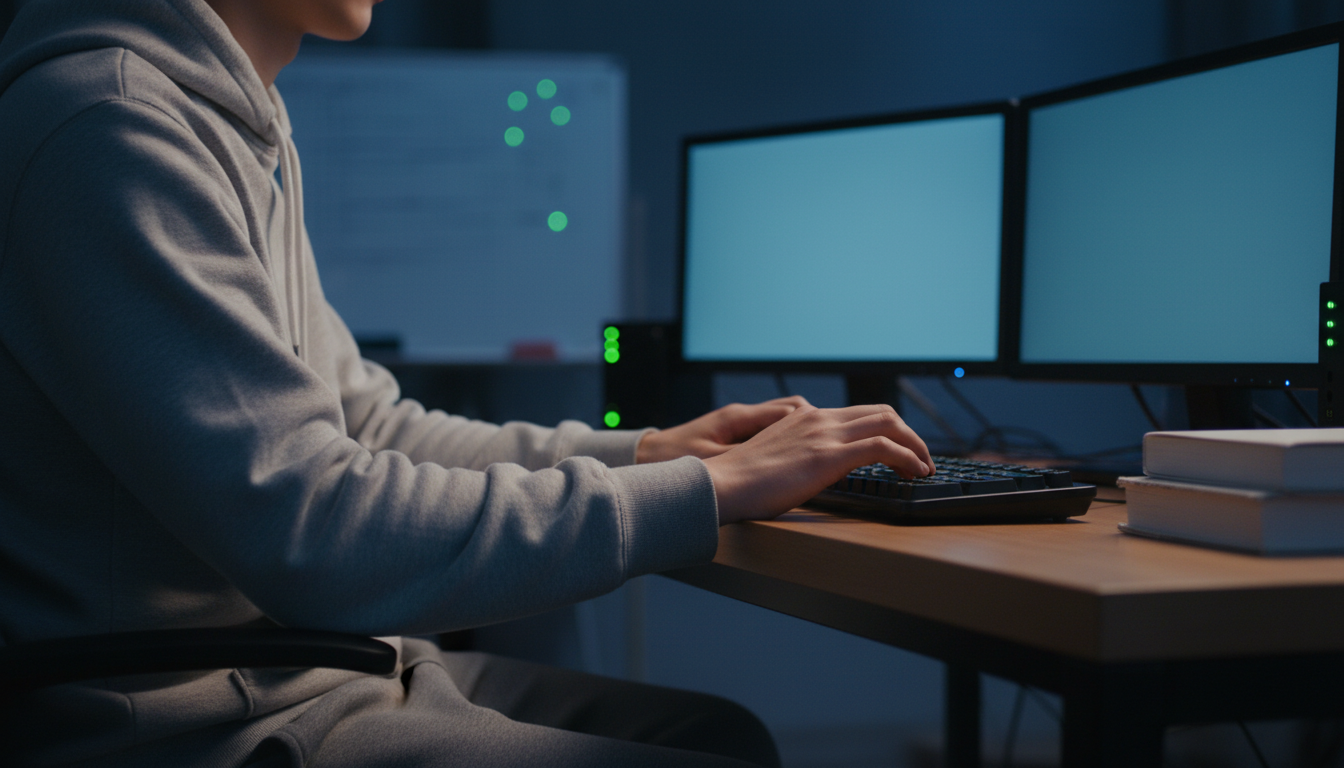
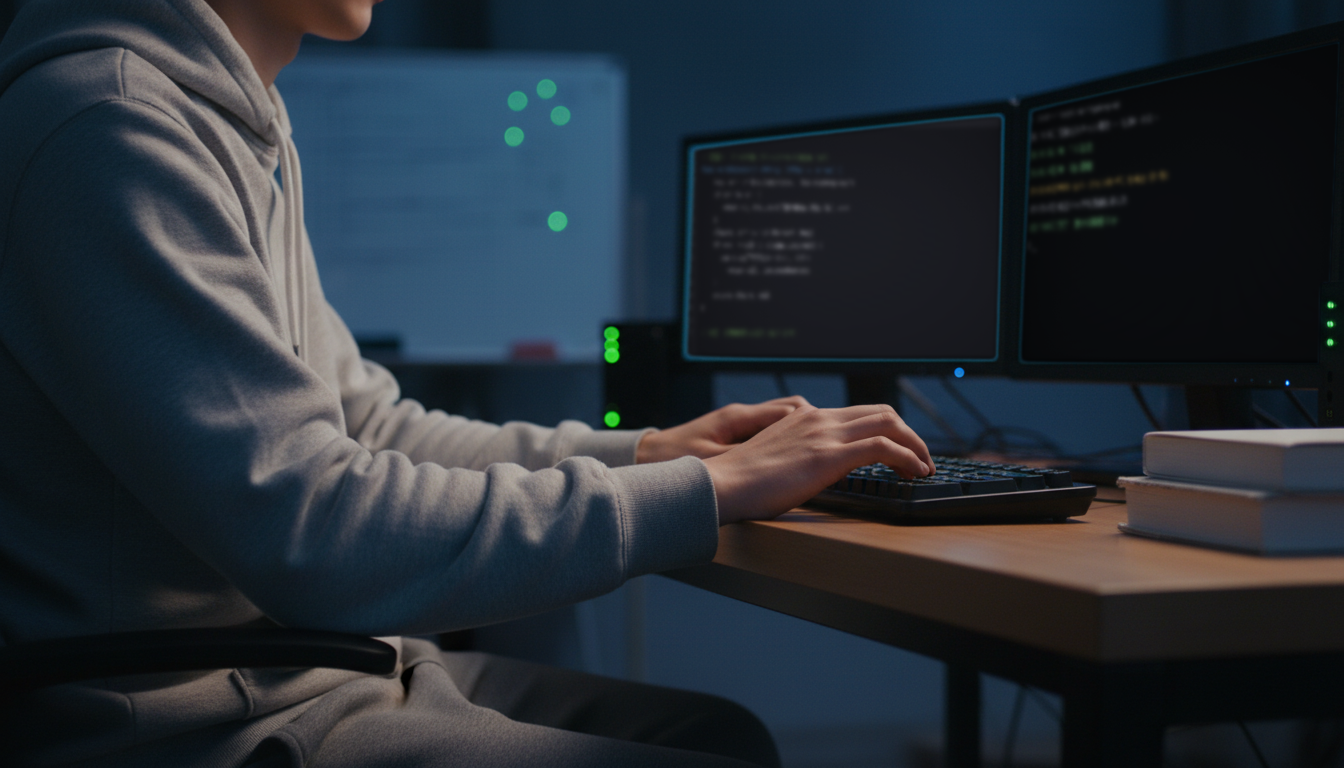
S05d·S20b 화면 수동 사각형 합성(초점 밖 화면 blur·feather 항목)
Claude-Session: https://claude.ai/code/session_01N7M5aRrGWr6VeAMa9sT3DQ

Changed region(s): [[0.5, 0.0625, 1.0, 0.5]]

diff --git a/scripts/hikikomori_screens.py b/scripts/hikikomori_screens.py
@@ -300,8 +300,9 @@ def apply_plan(img, entries, blur=1.0):
         src = np.asarray(lcd(content(kind), kind))
         M = cv2.getPerspectiveTransform(np.float32([[0, 0], [SW, 0], [SW, SH], [0, SH]]), q)
         warped = cv2.warpPerspective(src, M, (W, H), flags=cv2.INTER_AREA).astype(float)
-        if blur:
-            warped = cv2.GaussianBlur(warped, (0, 0), blur)
+        b = e.get("blur", blur)  # 초점 밖 화면은 항목별로 더 흐리게
+        if b:
+            warped = cv2.GaussianBlur(warped, (0, 0), b)
         poly = np.zeros((H, W), np.float32); cv2.fillConvexPoly(poly, q.astype(np.int32), 1.0)
         if e.get("grow"):  # 화면 가장자리 흰 테까지 덮기
             poly = cv2.dilate(poly, np.ones((2 * e["grow"] + 1,) * 2, np.uint8))
@@ -319,7 +320,7 @@ def apply_plan(img, entries, blur=1.0):
         if e.get("occpoly"):  # 앞 인물 윤곽(머리·어깨)을 다각형으로
             m = np.ones((H, W), np.float32); cv2.fillPoly(m, [np.int32(e["occpoly"])], 0.0)
             key *= cv2.GaussianBlur(m, (0, 0), 2)
-        key = cv2.GaussianBlur(key, (0, 0), 1.0)
+        key = cv2.GaussianBlur(key, (0, 0), e.get("feather", 1.0))  # 초점 밖 화면은 가장자리도 무르게
         out = out * (1 - key[..., None]) + warped * gain * lvl * key[..., None]
     return Image.fromarray(out.clip(0, 255).astype("uint8"))
 
